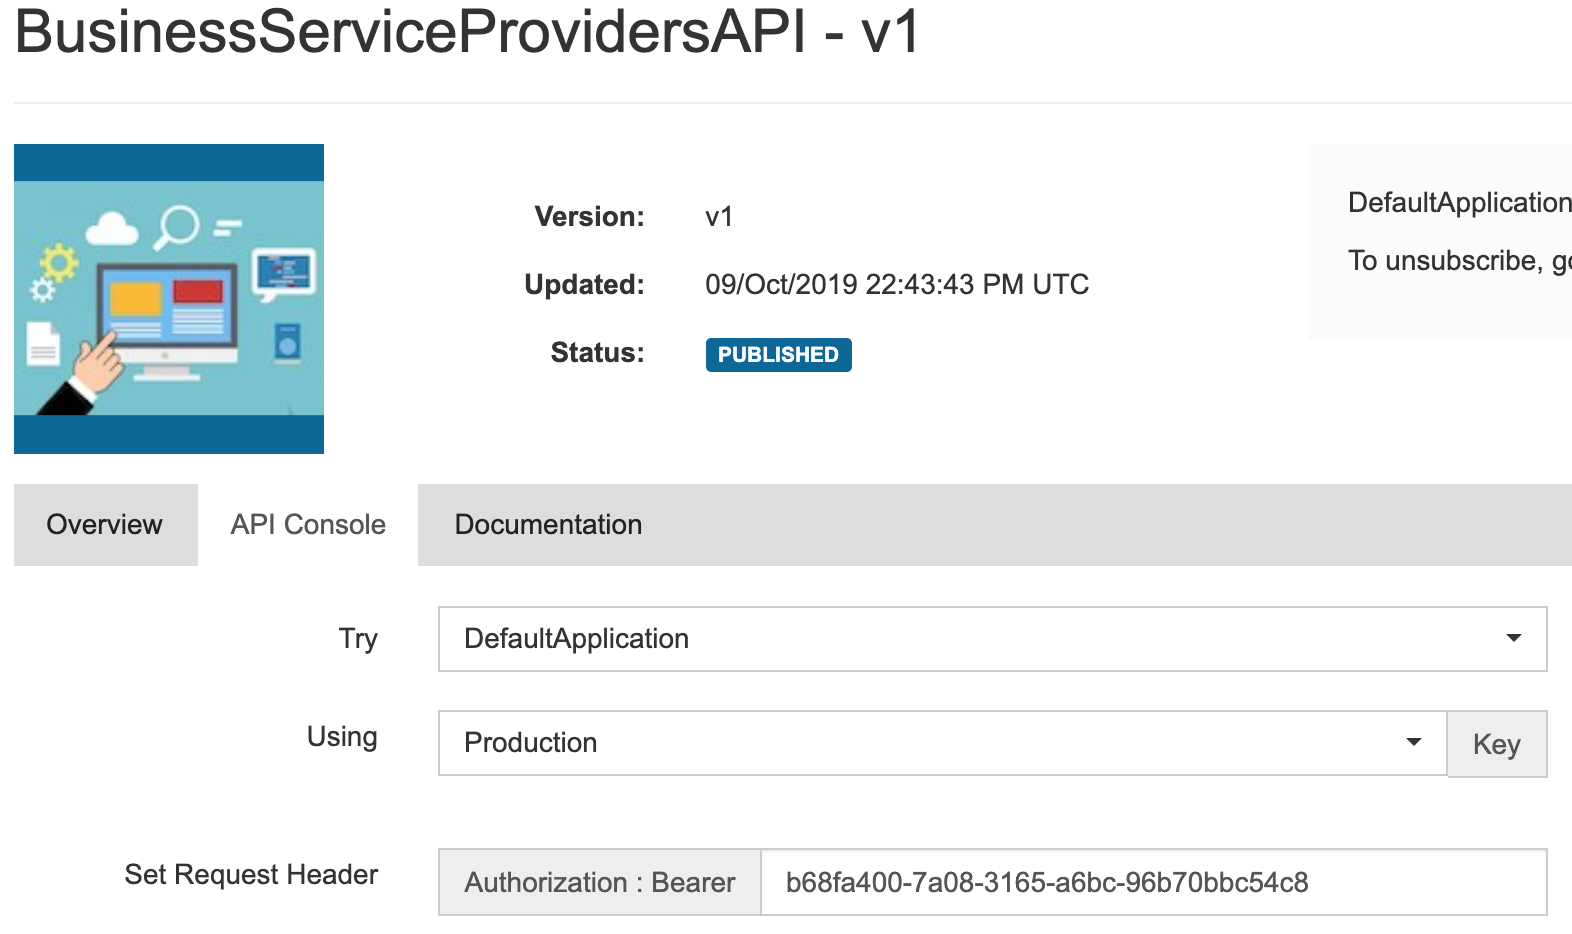
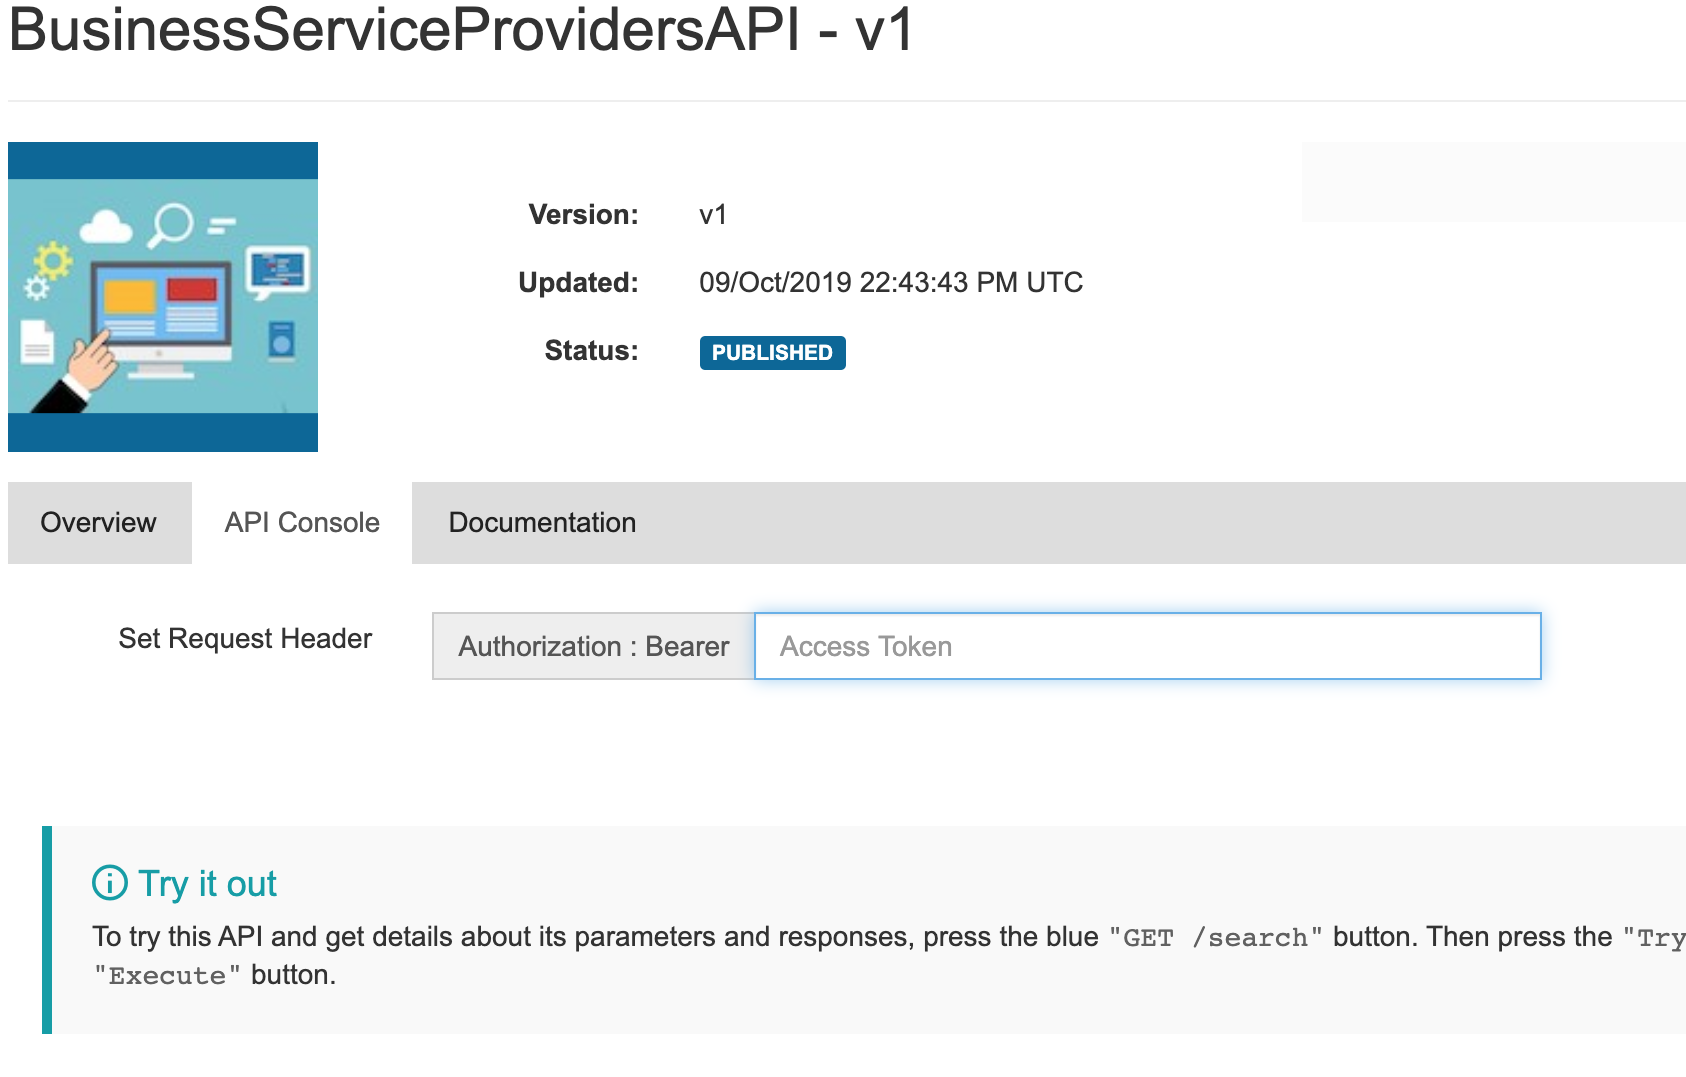
Update instructions and documentation
- Access Token interface UI updated
- Formatting revision to TOS

diff --git a/tos.html b/tos.html
@@ -144,7 +144,7 @@
 
 <h6 id="terms-of-service-agreement">Terms of Service Agreement<a class="header-link" href="tos.html#terms-of-service-agreement"><i class="fa fa-link"></i></a></h6>
 
-<p>The International Trade Administration offers some of its public data in machine-readable format via an Application Programming Interface (“API”). This service is offered subject to your acceptance of the terms and conditions contained herein as well as any relevant sections of the trade.gov Information Quality Guidelines (http://www.ita.doc.gov/ITAiqs.pdf) and Privacy Policy (http://trade.gov/privacy.asp) (collectively, the “Agreements”).</p>
+<p>The International Trade Administration offers some of its public data in machine-readable format via an Application Programming Interface (“API”). This service is offered subject to your acceptance of the terms and conditions contained herein as well as any relevant sections of the trade.gov Information Quality Guidelines (<a href="http://www.ita.doc.gov/ITAiqs.pdf">http://www.ita.doc.gov/ITAiqs.pdf</a>) and Privacy Policy (<a href="http://trade.gov/privacy.asp">http://trade.gov/privacy.asp</a>) (collectively, the “Agreements”).</p>
 
 <h6 id="scope">Scope<a class="header-link" href="tos.html#scope"><i class="fa fa-link"></i></a></h6>
 

diff --git a/GettingStartedOnWSO2.md b/GettingStartedOnWSO2.md
@@ -15,19 +15,13 @@
 
 ## Invoking an API
 The new APIs use Bearer Authentication, so your request must include this in the Authorization header `Authorization: Bearer <access_token>`.
-1. You can get your Access Token using your Consumer Key and Consumer Secret in your Application's Production Keys Tab: 
+1. You can view or regenerate your Access Token in your Application's Access Token tab: 
 
-  <img src="getting-started-screenshots/Application_ProductionKeys-tab.png" alt="Application_ProductionKeys-tab" width="600"/>  
-
-  * You can use one of the two supplied cURL commands in your terminal  
-  <img src="getting-started-screenshots/GeneratingAccessToken_cURL.png" alt="GeneratingAccessToken_cURL" width="600"/>  
-
-  * Or, you can click "Generate Keys" (or "Regenerate") in the "Generate a Test Access Token" section.  This token will be then be displayed in the API console tab for a particular API when you're signed in.  
-  <img src="getting-started-screenshots/GenerateAccessToken_gui.png" alt="GenerateAccessToken_gui" width="600"/>  
+  <img src="getting-started-screenshots/Application_AccessTokenTab.png" alt="Application Access Token Tab" width="600"/>  
   
-  **Note that Access Tokens default to expire after 1 hour (3600 seconds).  This value can be adjusted to your needs, or, you can set the Validity Period to `-1` for indefinite validity.**
+  **If you regenerate the Access Token, the old Access Token expires. Only the most recent token is valid for each Application.**
 
-2. In the API Console Tab, confirm that your Access Token is present in the `Authorization : Bearer` field, and click the blue "GET" button.  In the drop down console that appears, click "Try it out".  Here, you can enter in various query parameters, and click the "Execute" button under the query parameters to execute the request. 
+2. Next, in the API Console Tab of an API to which you have subscribed, confirm that your Access Token is present in the `Authorization : Bearer` field, and click the blue "GET" button.  In the drop down console that appears, click "Try it out".  Here, you can enter in various query parameters, and click the "Execute" button under the query parameters to execute the request.  
   <img src="getting-started-screenshots/API_Console1.png" alt="API_Console1" width="500"/>
   <img src="getting-started-screenshots/API_Console2_TryItButton.png" alt="API_Console2_TryItButton" width="600"/>
   <img src="getting-started-screenshots/API_Console3_Execute.png" alt="API_Console3_Execute" width="600"/>
@@ -46,11 +40,11 @@ The new APIs use Bearer Authentication, so your request must include this in the
   * Currently, only one access token - the most recently generated, non-expired access token - is valid per application.  And at this time, each username can generate one application.
 
 * _What is the difference between API Key and Access Token? Which do I use and how?_
-  * The new API store uses the Bearer authentication scheme (also called token authentication), so instead of API keys, you have a Consumer Key and Consumer Secret, which are used to generate an Access Token.  Your application will likely use the Access Token to fetch data from the API.  
+  * The new API store uses the Bearer authentication scheme (also called token authentication), so instead of API keys, you have an Access Token.  Your application will use the Access Token to fetch data from the API. 
   For more information about the Access Token, see the instructions for [Invoking an API](#invoking-an-api).
 
 ### Throttling
-* _When setting up a new API key, I noticed it states that 100 requests are allowed per minute per access token. Is that all the information about throttling available?_ 
+* _When setting up a new API access token, I noticed it states that 100 requests are allowed per minute per access token. Is that all the information about throttling available?_ 
   * Yes.  If you have more specific questions, please email [DataServices@trade.gov](mailto:DataServices@trade.gov?subject=API%20Request%20Throttling%20Question)
 
 * _I have seen the information about the throttling. Are there any other restrictions that I should be aware of?_
@@ -67,4 +61,4 @@ The new APIs use Bearer Authentication, so your request must include this in the
   * Yes, see above.
 
 * _I have an API Key for downloading the CSV file. Do I need to get a new API key to continue downloading the CSV file?_
-  * An API key is no longer needed for downloading the CSV file: https://www.export.gov/article?id=Consolidated-Screening-List
+  * An API key is no longer needed for downloading the CSV file: [https://www.export.gov/article?id=Consolidated-Screening-List](https://www.export.gov/article?id=Consolidated-Screening-List)
